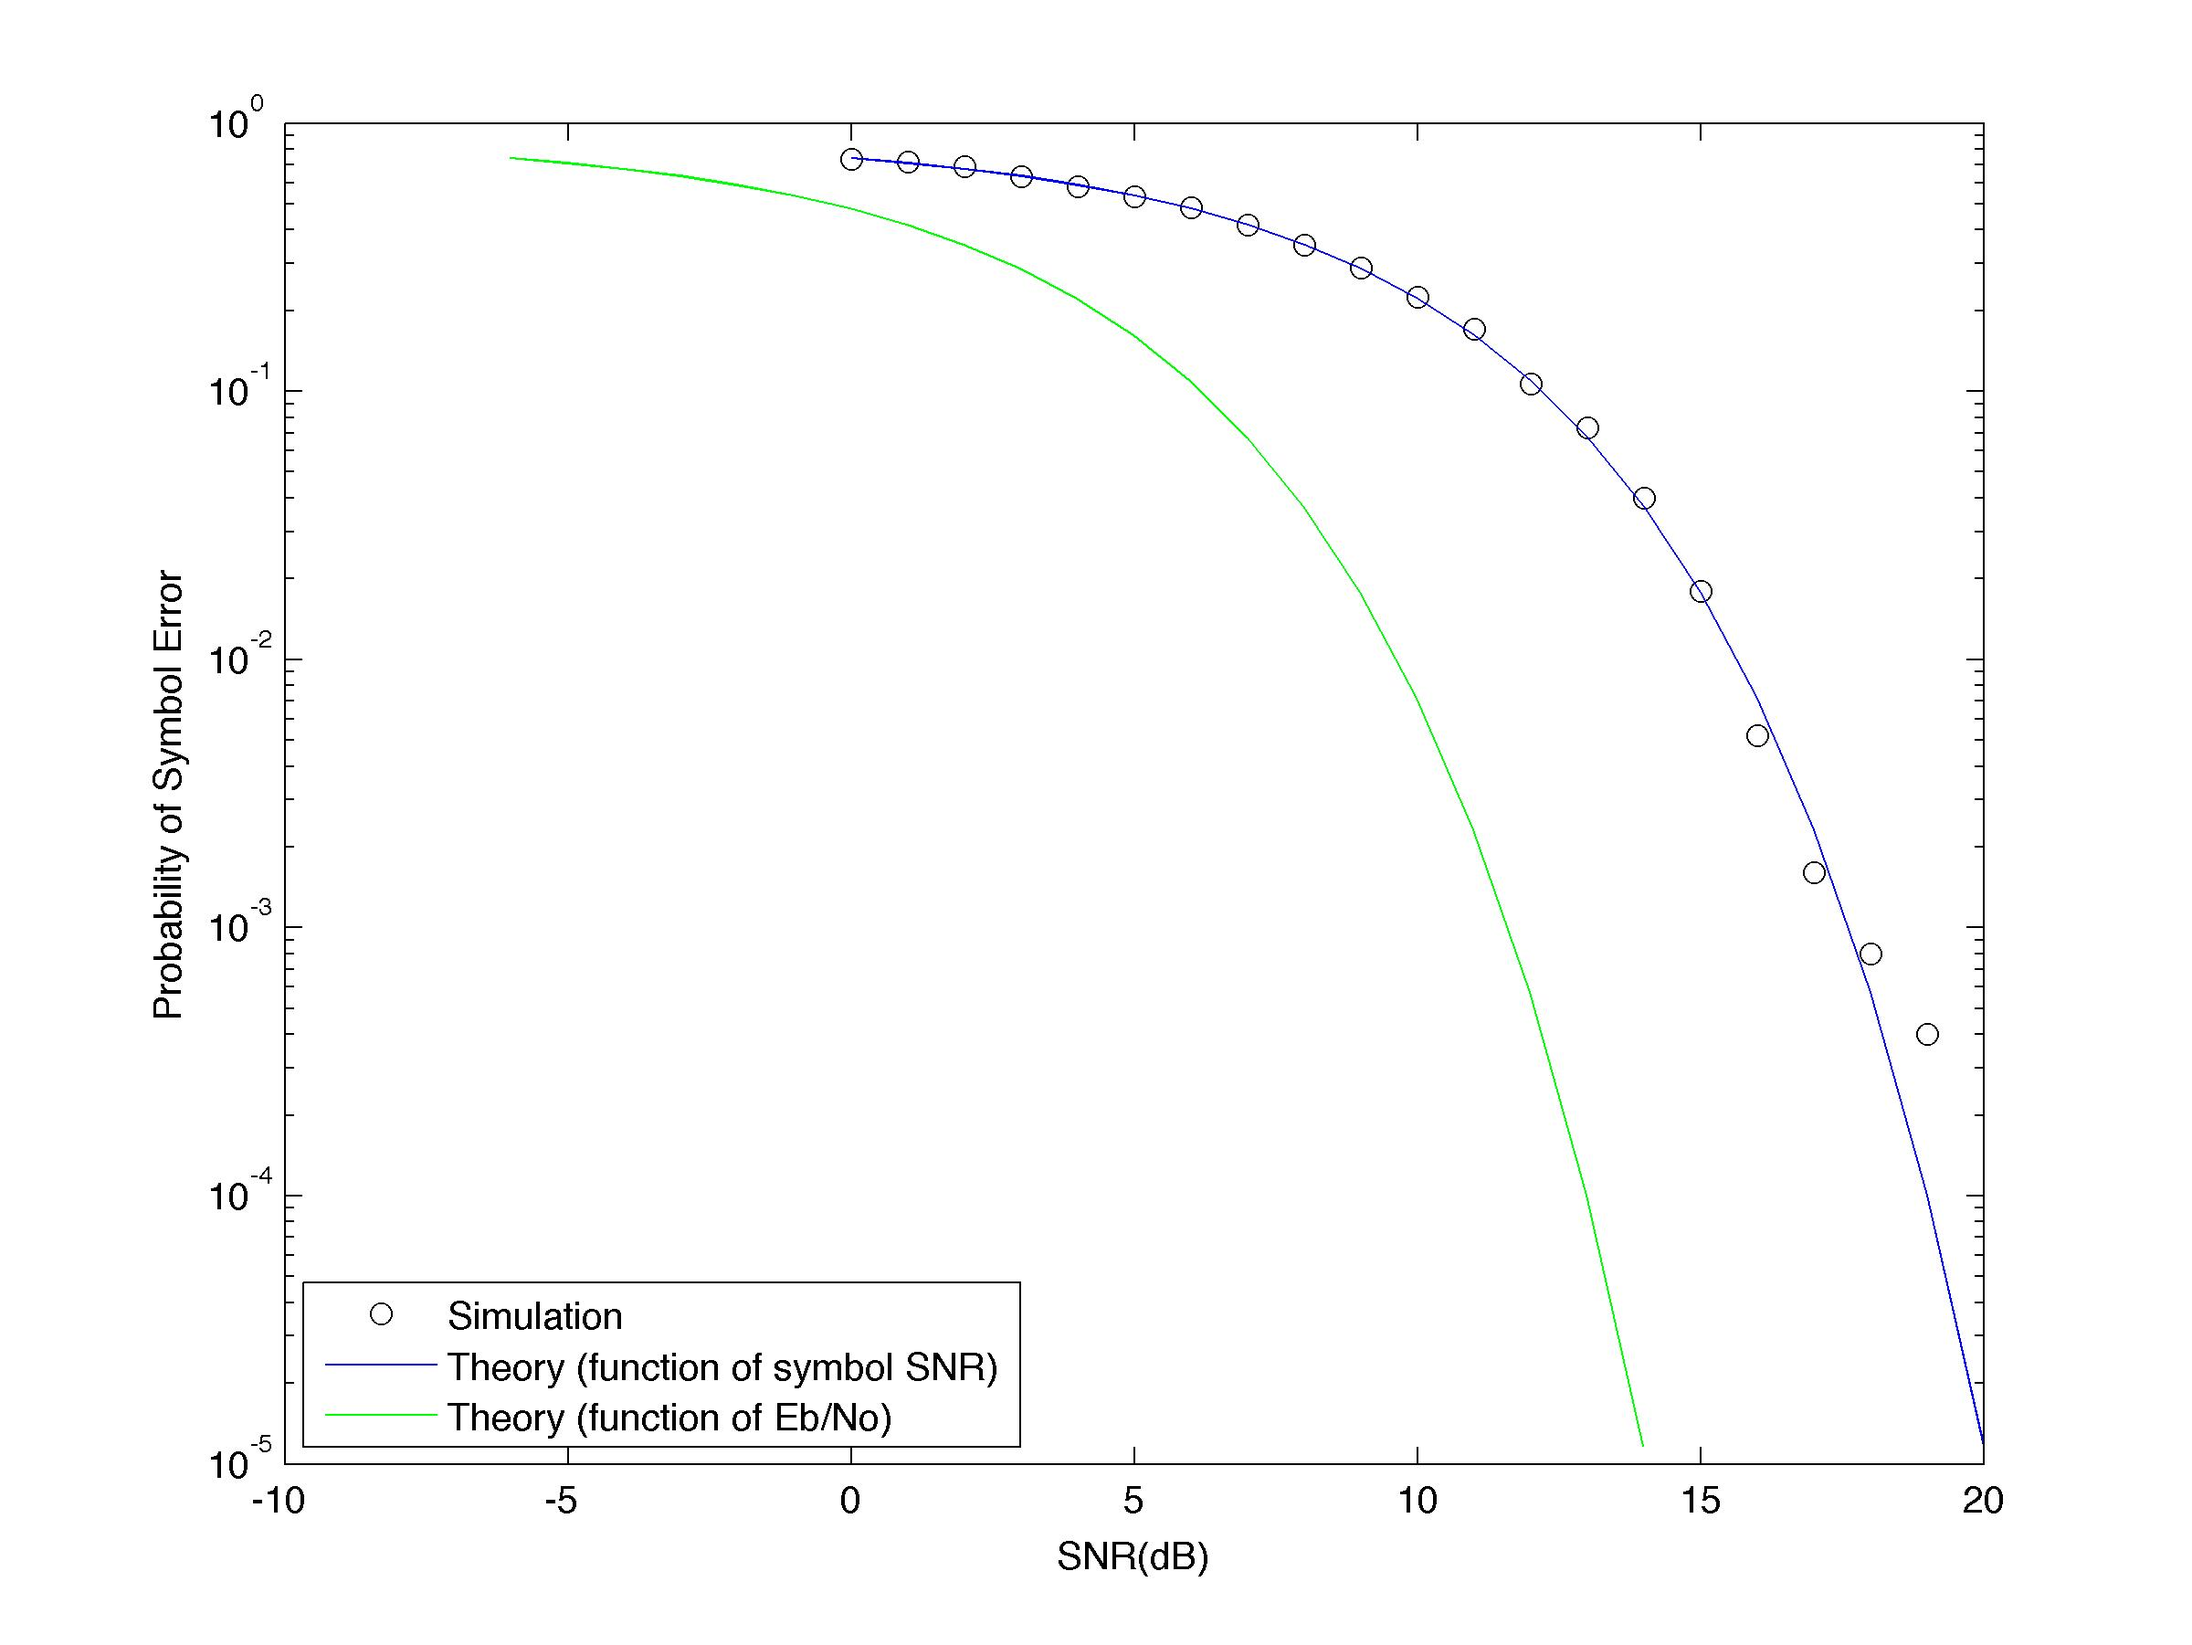
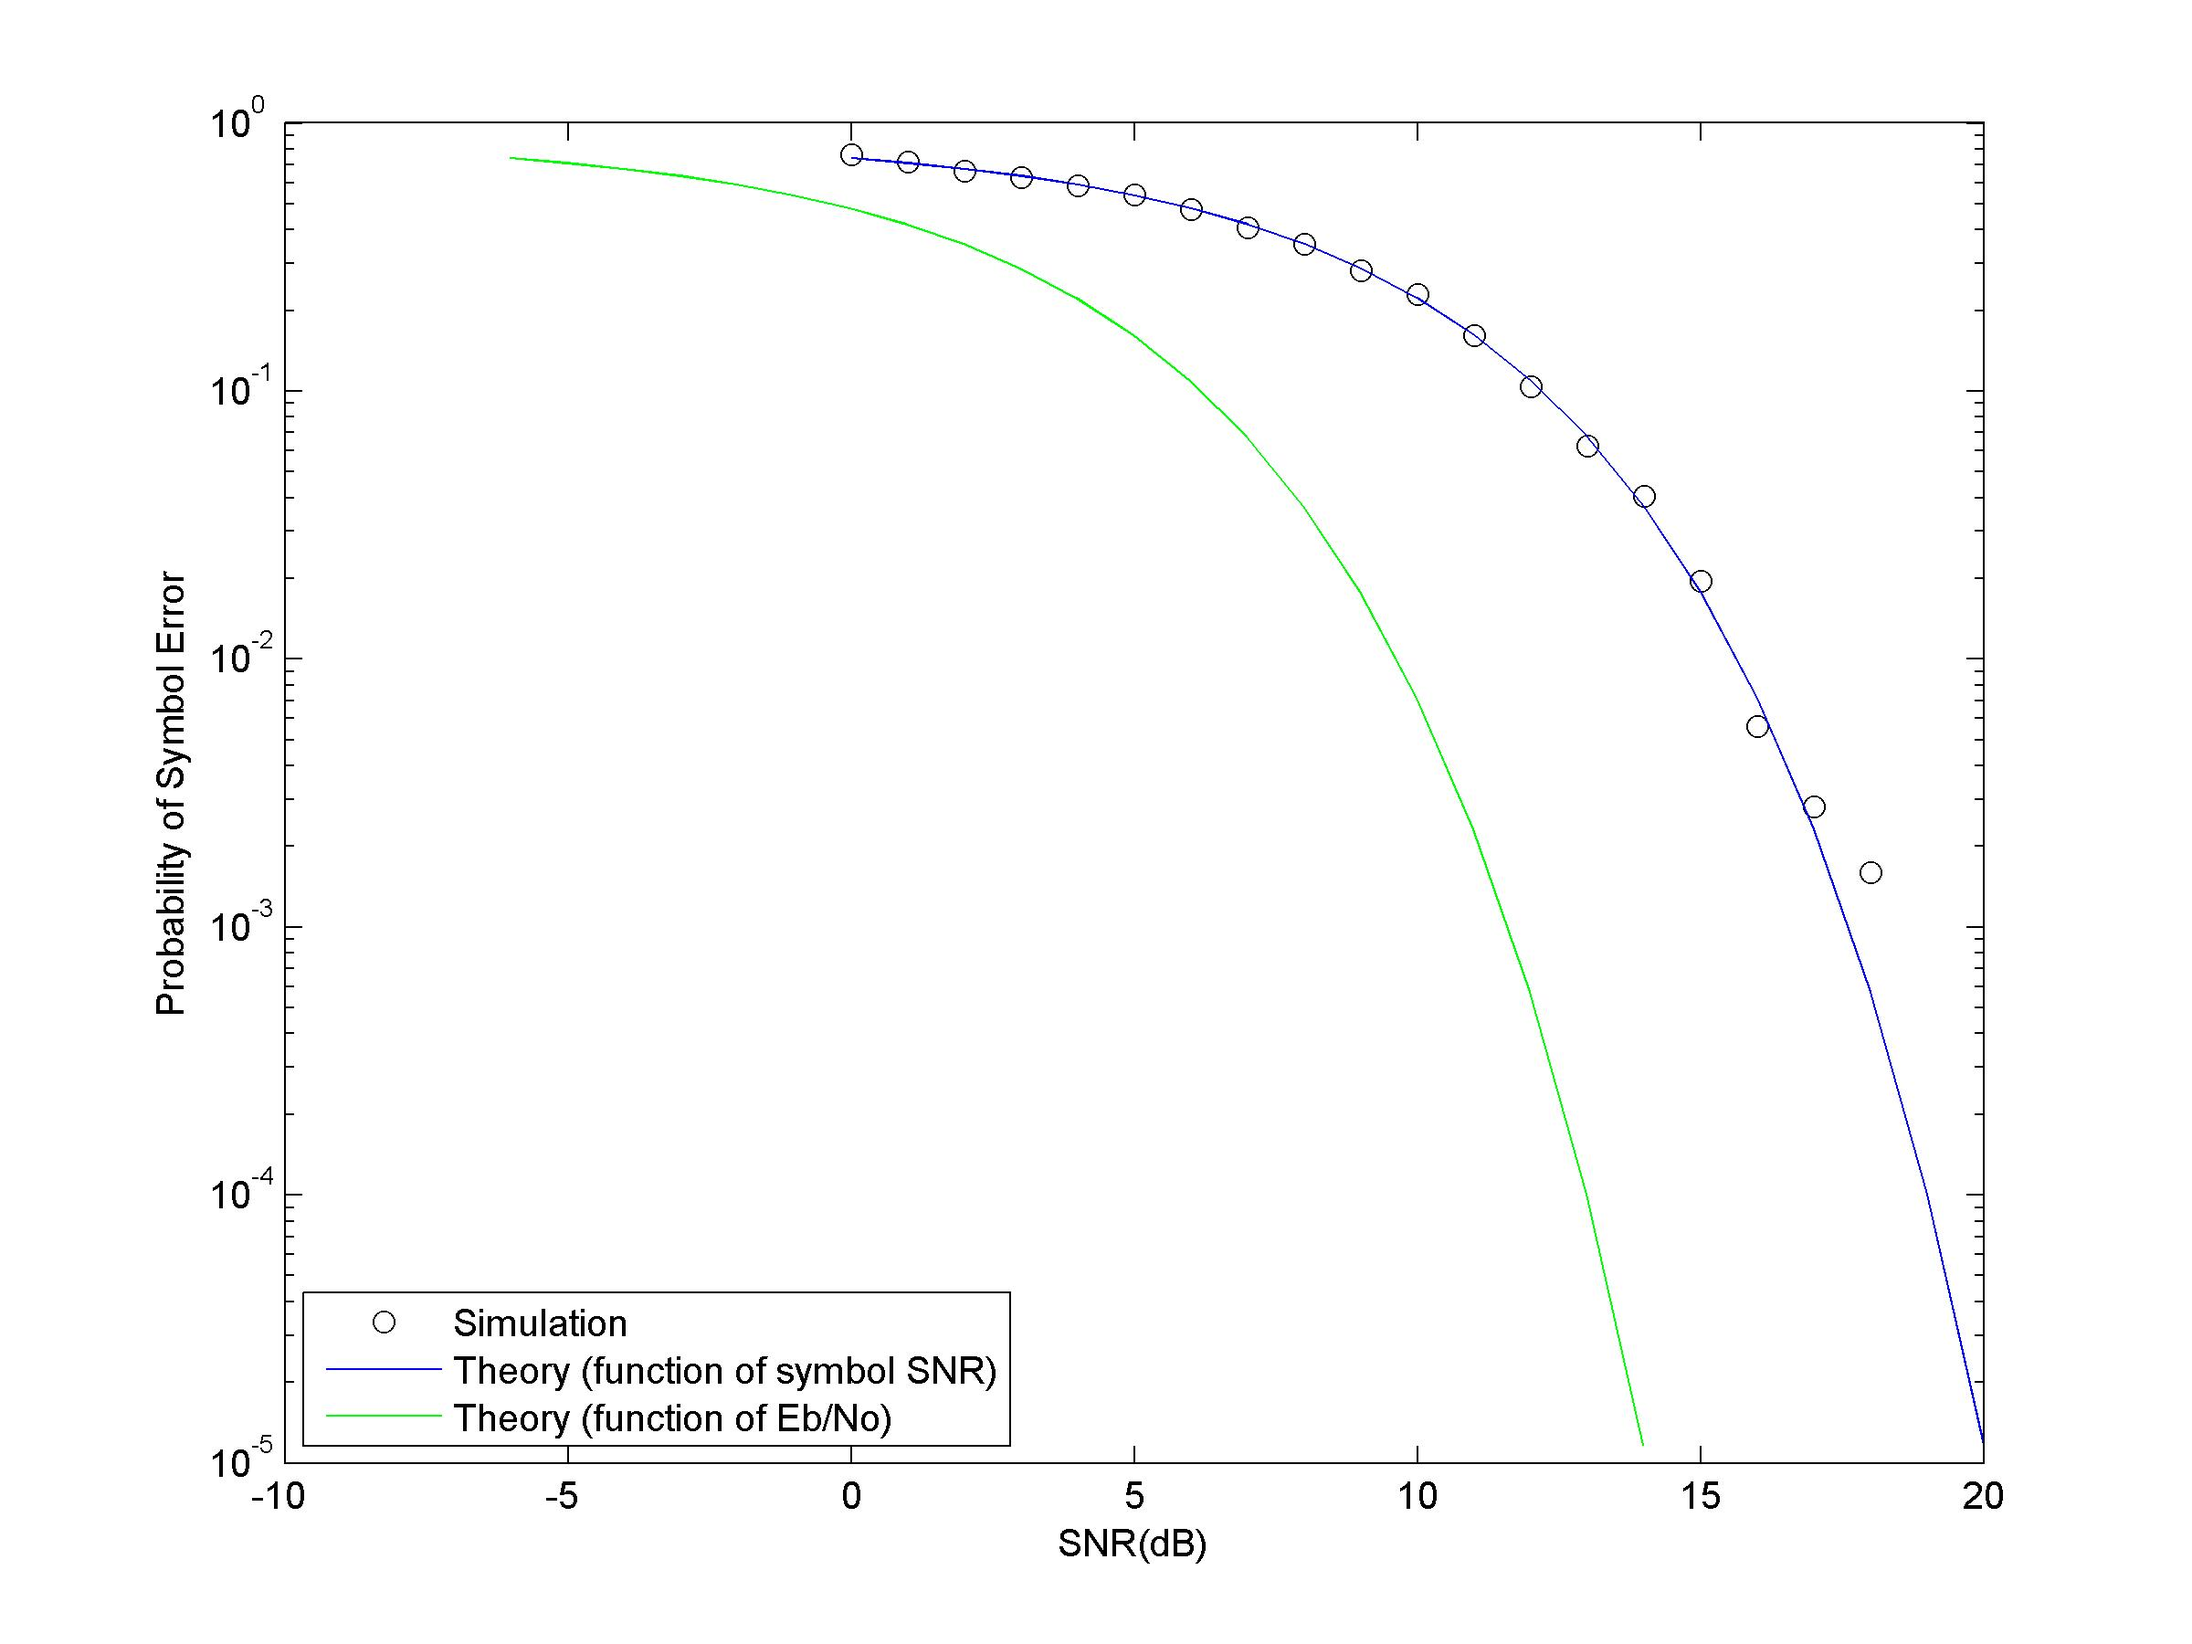
-

diff --git a/step1/SNR2EbN0.m b/step1/SNR2EbN0.m
@@ -11,7 +11,7 @@ function [EbN0] = SNR2EbN0(SNR,symbolSize,B)
 % OUTPUTS
 % EbN0 - the bit power over noise power
 
-EbN0 = SNR - 10*log10(symbolSize/B);
+EbN0 = SNR - 10*log10(symbolSize);
 
 end
 

diff --git a/step1/step1_sim_QAM16.m b/step1/step1_sim_QAM16.m
@@ -3,7 +3,7 @@ clear all;
 clc;
 
 overSampleSize = 4;
-rollOffFactor = 1;
+rollOffFactor = 0.25;
 Ts = 1;
 S=10; %average signal power for 16-QAM
 B = rollOffFactor*(1/(2*Ts)) + 1/(2*Ts);
